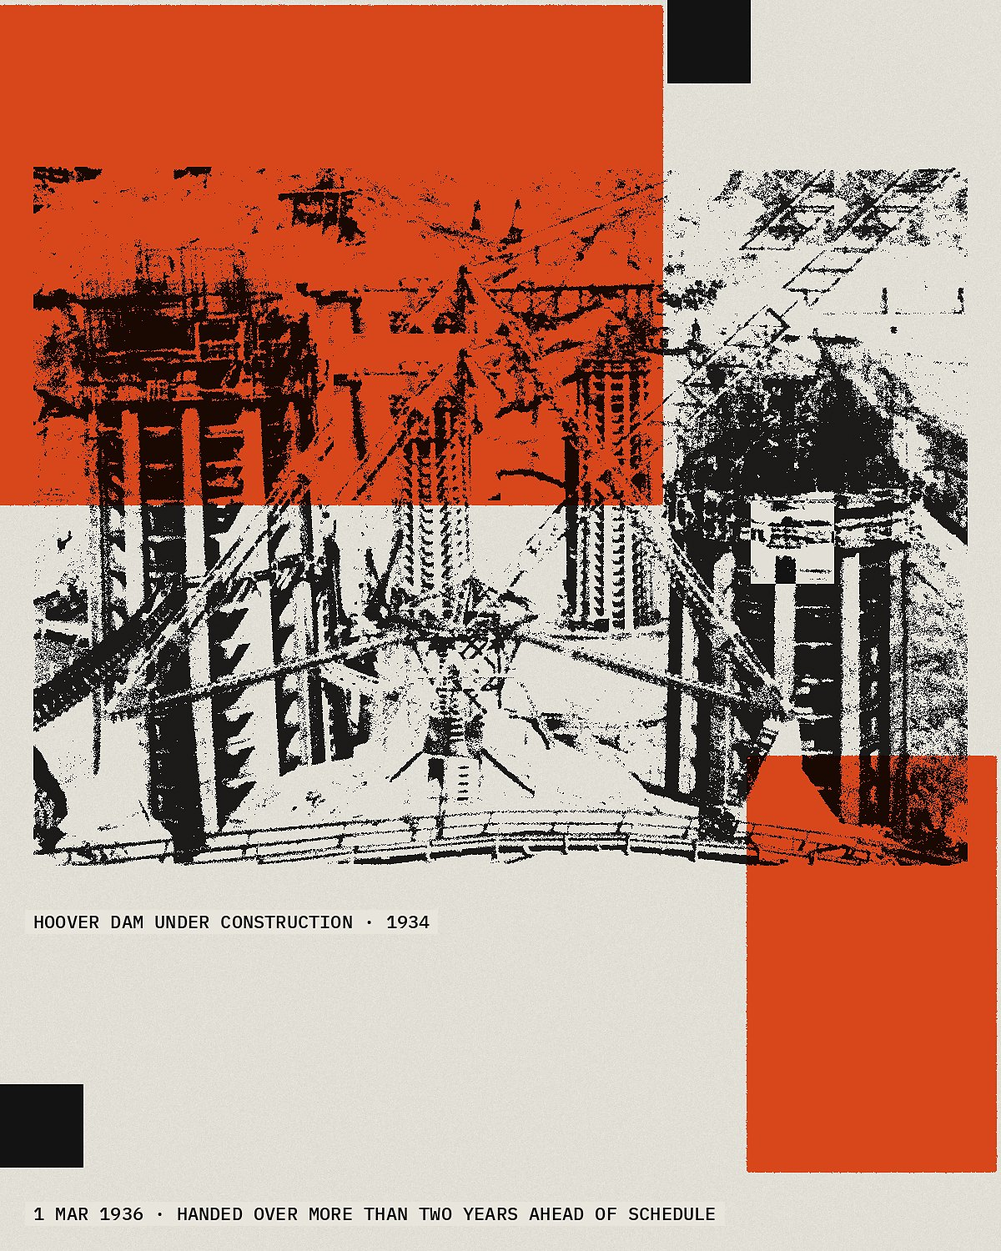
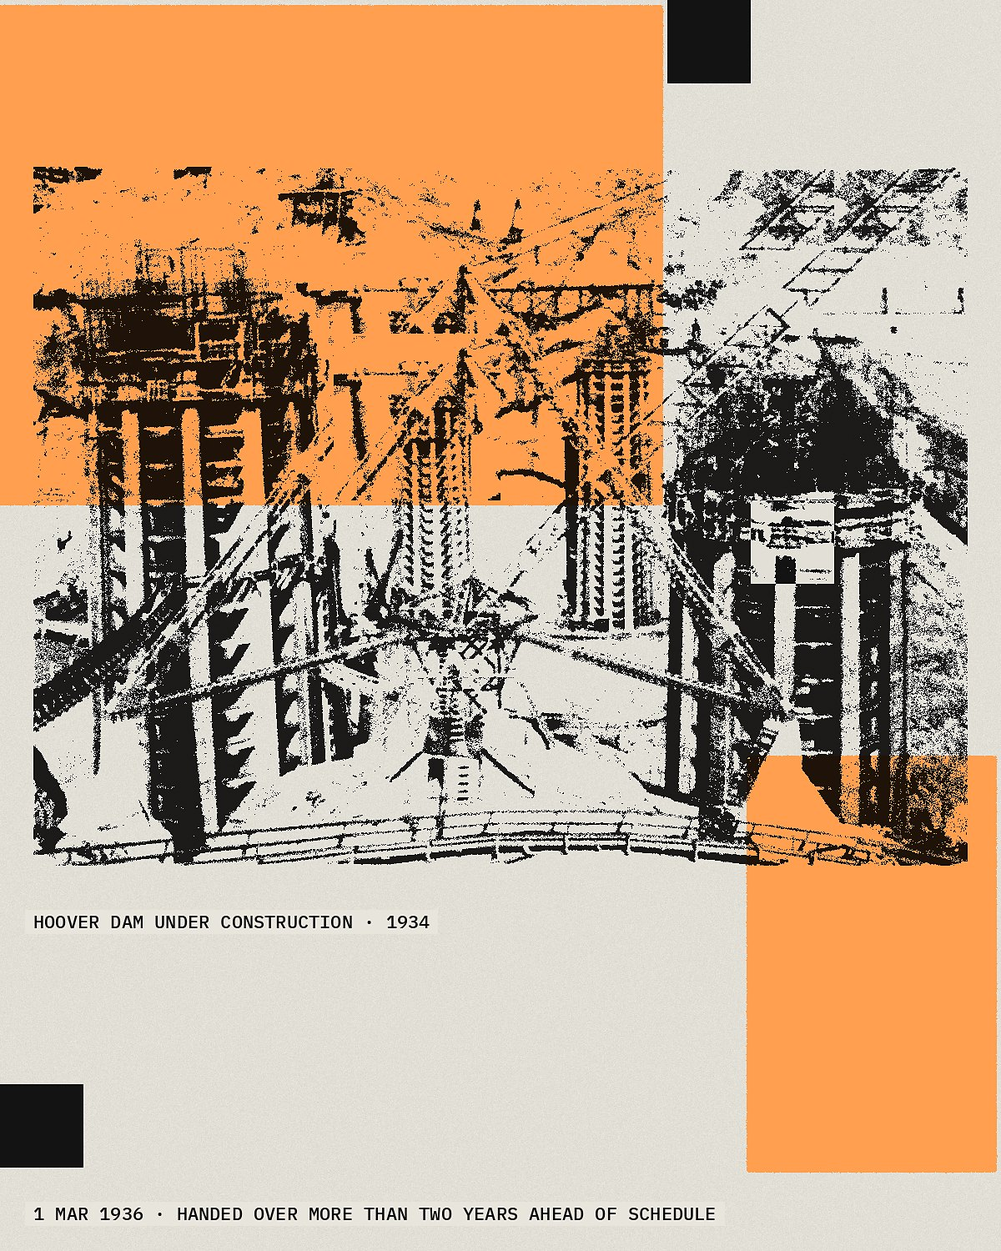
Phase A: history first, families reordered, highlighter orange, new EA card
- Home page: History of AI, then Movements, then Vocabulary (owner, 22 Nov 2026); menu and hero links follow.
- Families in the order Transcendence, Acceleration, Risk; movements renumbered 01-06; hero "Transcend. Accelerate. Pause."
- Acceleration's family colour is now highlighter orange #FF9F4F; the site accent and the History of AI card keep #D8461C.
- Effective altruism card: a Thomas de Colmar arithmometer of 1860 (public domain, batch 10) beside 10^58, Bostrom's 2014 count of possible future lives, instead of the bed nets.
- "2045" moves from the Transhumanism card to the Singularitarianism card, beside von Neumann's IAS machine; Transhumanism keeps the Gilgamesh tablet with no big type.

Claude-Session: https://claude.ai/code/session_01Sc1pzyhKsrC3mM6v1oVhk6

Changed region(s): [[0.0, 0.0, 0.6783, 0.4293], [0.74, 0.5827, 1.0, 0.9507]]

diff --git a/src/styles/site.css b/src/styles/site.css
@@ -65,7 +65,7 @@ a:hover { color: var(--muted); }
 .chips label:hover { border-color: var(--ink); }
 /* Families as rows: the family on the left, its two movements side by side. */
 .sec-h { margin: 0 0 40px; font-size: 48px; line-height: 52px; font-weight: 600; letter-spacing: -0.02em; }
-.mov-sec { display: flex; flex-direction: column; gap: 48px; }
+.mov-sec { margin-top: 128px; display: flex; flex-direction: column; gap: 48px; } /* the home page runs History of AI, Movements, Vocabulary (owner, 22 Nov 2026) */
 .fams { display: flex; flex-direction: column; row-gap: 72px; }
 .fam { display: grid; grid-template-columns: repeat(2, minmax(0, 1fr)); column-gap: var(--g); row-gap: 28px; align-items: start; padding-top: 18px; border-top: 2px solid var(--ink); }
 .fh { grid-column: 1 / -1; display: flex; align-items: baseline; flex-wrap: wrap; column-gap: 20px; row-gap: 4px; }
@@ -240,7 +240,7 @@ a.hist:hover .ht { text-decoration: underline; }
 .hm:target summary .hm-n { text-decoration: underline; text-decoration-color: var(--accent); text-underline-offset: 4px; }
 
 /* The history card on the home page: a panorama from side to side, the text in columns under it */
-.hist-sec { margin-top: 128px; display: flex; flex-direction: column; gap: 48px; }
+.hist-sec { display: flex; flex-direction: column; gap: 48px; }
 .hcard { display: flex; flex-direction: column; gap: 12px; text-decoration: none; color: var(--ink); }
 .hcard:hover { color: var(--ink); }
 .hcard:hover img { filter: brightness(0.96); }

diff --git a/src/lib/site.ts b/src/lib/site.ts
@@ -3,9 +3,11 @@ export const SITE_TITLE = 'A genealogy of the ideas behind AI';
 export const MAP_DATE = '20 November 2026';
 
 export const FAMILIES = [
+  // In the order of the home page (owner, 22 Nov 2026): from the farthest future towards the present,
+  // from the most eager about the machine to the most wary. Family colours are highlighter colours.
   { id: 'transcendence', name: 'Transcendence', colour: '#C9F25B', text: 'The vision of a future beyond human limits.' },
+  { id: 'acceleration', name: 'Acceleration', colour: '#FF9F4F', text: 'The conviction that the answer is more technology, faster.' },
   { id: 'risk', name: 'Risk', colour: '#F5A3BC', text: 'The fear that AI could end us, and the work to prevent it.' },
-  { id: 'acceleration', name: 'Acceleration', colour: '#D8461C', text: 'The conviction that the answer is more technology, faster.' },
 ] as const;
 
 /* The eras of the history of AI, newest first. Each history moment names one. */

diff --git a/scripts/collages.py b/scripts/collages.py
@@ -14,6 +14,8 @@ M = 100
 PAPER = np.array([226, 223, 215], float) / 255
 INK = np.array([20, 19, 19], float) / 255
 GREEN, PINK, ORANGE, GREY = '#C9F25B', '#F5A3BC', '#D8461C', '#B7B3AA'
+# The families' colours are highlighter colours (owner, 22 Nov 2026). ORANGE stays the site accent, used on the History of AI cards.
+ACCEL = '#FF9F4F'
 SANS = os.path.join(ROOT, 'scripts/collage-fonts/InterTight-600.ttf')
 MONO = os.path.join(ROOT, 'scripts/collage-fonts/PlexMono-500.ttf')
 
@@ -135,30 +137,31 @@ SPECS = [
          fields=[(0, 1, 9, 10), (10, 0, 6, 5)], black=[(9, 0, 1, 1), (15, 7, 1, 1)],
          fragments=[dict(img='gilgamesh-tablet-xi.jpg', box=(900, 1040), crop=(0.05, 0.04, 0.95, 0.96), how='screen', level=0.43, at=(0, 60))],
          shift=[(3, 4, 2, 2, 1, 0), (5, 8, 1, 2, 0, -1)], invert=[(7, 2, 1, 1)],
-         type=[dict(slab=(8, 7, 8, 4), parts=[('2045', 300, 840, 760)])],
-         labels=[('2045 · KURZWEIL, THE SINGULARITY IS NEAR (2005)', 850, 655), ('7TH CENTURY BCE · THE FLOOD TABLET, EPIC OF GILGAMESH', 40, 1150)]),
+         labels=[('7TH CENTURY BCE · THE FLOOD TABLET, EPIC OF GILGAMESH', 40, 1150)]),
     dict(id='collage-singularitarianism', size=ISM, colour=GREEN, seed=5,
          fields=[(0, 1, 8, 9), (11, 7, 5, 5)], black=[(8, 0, 1, 1), (15, 3, 1, 1)],
          fragments=[dict(img='sing-ias-computer.jpg', box=(1100, 661), crop=(0.0, 0.05, 1.0, 0.95), how='screen', level=0.5, at=(60, 200))],
          shift=[(3, 3, 2, 2, 1, 0), (8, 5, 2, 1, 0, 1)], invert=[(6, 2, 1, 1)],
-         labels=[('1958 · ULAM RECALLS VON NEUMANN ON AN "ESSENTIAL SINGULARITY"', 60, 930), ("THE IAS MACHINE · VON NEUMANN'S COMPUTER, PRINCETON", 40, 1150)]),
+         type=[dict(slab=(8, 8, 8, 3), parts=[('2045', 300, 840, 790)])],
+         labels=[('1958 · ULAM RECALLS VON NEUMANN ON AN "ESSENTIAL SINGULARITY"', 60, 140), ('2045 · KURZWEIL, THE SINGULARITY IS NEAR (2005)', 845, 1110), ("THE IAS MACHINE · VON NEUMANN'S COMPUTER, PRINCETON", 40, 1150)]),
     dict(id='collage-rationalism', size=ISM, colour=PINK, seed=8,
          fields=[(0, 0, 7, 12), (11, 0, 5, 5)], black=[(7, 0, 1, 1), (15, 9, 1, 1)],
          fragments=[dict(img='gem-paper-clip-1893.jpg', box=(306, 1080), crop=(0.025, 0.068, 0.18, 0.94), how='screen', level=0.6, blur=1.4, at=(260, 60))],
          shift=[(3, 6, 1, 1, 1, 0)], invert=[(2, 3, 1, 1)],
          labels=[('2003 · THE PAPERCLIP MAXIMISER', 820, 640), ('1893 · THE GEM PAPER CLIP, AS ADVERTISED', 40, 1150)]),
     dict(id='collage-effective-altruism', size=ISM, colour=PINK, seed=13,
-         fields=[(0, 1, 9, 10), (11, 0, 5, 4)], black=[(9, 0, 1, 1), (15, 8, 1, 2)],
-         fragments=[dict(img='bednets-stacked.jpg', box=(1000, 893), crop=(0.0, 0.0, 0.84, 1.0), channel='B', how='screen', level=0.55, detail=2, blur=0.7, at=(40, 60))],
-         shift=[(3, 3, 2, 2, 1, 0), (6, 7, 1, 2, 0, -1)], invert=[(7, 2, 1, 1)],
-         labels=[('ABOUT $5 A NET', 1050, 610), ('$5,500 PER LIFE SAVED · GIVEWELL, 2021–23', 1050, 652), ('BED NETS READY FOR DISTRIBUTION', 40, 1150)]),
-    dict(id='collage-effective-accelerationism', size=ISM, colour=ORANGE, seed=21,
+         fields=[(0, 1, 10, 8), (12, 8, 4, 4)], black=[(10, 0, 1, 1), (0, 10, 1, 1)],
+         fragments=[dict(img='arithmometer-1860.jpg', box=(1000, 542), crop=(0.13, 0.10, 0.88, 0.71), how='screen', level=0.46, detail=2, at=(40, 200))],
+         shift=[(3, 3, 2, 2, 1, 0), (7, 6, 1, 1, 0, -1)], invert=[(6, 3, 1, 1)],
+         type=[dict(slab=(8, 8, 8, 3), parts=[('10', 300, 860, 790), ('58', 150, 1180, 778)])],
+         labels=[("2014 · BOSTROM'S COUNT OF POSSIBLE FUTURE LIVES", 865, 1110), ('1860 · A THOMAS DE COLMAR ARITHMOMETER', 40, 1150)]),
+    dict(id='collage-effective-accelerationism', size=ISM, colour=ACCEL, seed=21,
          fields=[(0, 6, 9, 6), (12, 0, 4, 4)], black=[(9, 0, 1, 3), (15, 6, 1, 1)],
          fragments=[dict(img='boccioni-city-rises.jpg', box=(1240, 830), how='screen', level=0.52, at=(0, 0))],
          shift=[(3, 2, 2, 2, 1, 0), (6, 4, 2, 2, 0, -1), (10, 1, 2, 2, -1, 0)], invert=[(1, 4, 2, 2)],
          type=[dict(slab=(8, 8, 8, 3), parts=[('e/acc', 300, 830, 800)])],
          labels=[('1910 · BOCCIONI, THE CITY RISES', 40, 1150), ('2022 · EFFECTIVE ACCELERATIONISM', 1160, 760)]),
-    dict(id='collage-techno-optimism', size=ISM, colour=ORANGE, seed=34,
+    dict(id='collage-techno-optimism', size=ISM, colour=ACCEL, seed=34,
          fields=[(0, 0, 7, 7), (11, 8, 5, 4)], black=[(7, 0, 1, 2), (0, 7, 1, 1)],
          fragments=[dict(img='hoover-dam-1934.jpg', box=(1040, 778), how='screen', level=0.5, at=(560, 40))],
          shift=[(9, 3, 2, 2, 0, 1), (12, 1, 2, 1, -1, 0)], invert=[(13, 5, 1, 1)],
@@ -309,20 +312,20 @@ SPECS = [
          fields=[(0, 0, 9, 10), (9, 11, 3, 4)], black=[(10, 1, 1, 1), (0, 12, 1, 1)],
          fragments=[dict(img='gilgamesh-tablet-xi.jpg', box=(840, 971), crop=(0.05, 0.04, 0.95, 0.96), how='screen', level=0.43, at=(40, 40))],
          shift=[(3, 3, 2, 2, 1, 0), (5, 7, 1, 2, 0, -1)], invert=[(6, 2, 1, 1)],
-         type=[dict(slab=(3, 10, 9, 3), parts=[('2045', 300, 380, 990)])],
-         labels=[('2045 · KURZWEIL, THE SINGULARITY IS NEAR (2005)', 385, 1325), ('7TH CENTURY BCE · THE FLOOD TABLET, EPIC OF GILGAMESH', 40, 1440)]),
+         labels=[('7TH CENTURY BCE · THE FLOOD TABLET, EPIC OF GILGAMESH', 40, 1440)]),
     dict(id='collage-singularitarianism-tall', size=PAGE, colour=GREEN, seed=5,
          fields=[(0, 2, 9, 9), (9, 11, 3, 4)], black=[(10, 1, 1, 1), (0, 13, 1, 1)],
          fragments=[dict(img='sing-ias-computer.jpg', box=(1120, 673), crop=(0.0, 0.05, 1.0, 0.95), how='screen', level=0.5, at=(40, 380))],
          shift=[(3, 5, 2, 2, 1, 0), (8, 7, 2, 1, 0, 1)], invert=[(6, 4, 1, 1)],
-         labels=[('1958 · ULAM RECALLS VON NEUMANN ON AN "ESSENTIAL SINGULARITY"', 40, 1130), ("THE IAS MACHINE · VON NEUMANN'S COMPUTER, PRINCETON", 40, 1440)]),
-    dict(id='collage-effective-accelerationism-tall', size=PAGE, colour=ORANGE, seed=21,
+         type=[dict(slab=(3, 0, 9, 3), parts=[('2045', 300, 380, 20)])],
+         labels=[('2045 · KURZWEIL, THE SINGULARITY IS NEAR (2005)', 385, 300), ('1958 · ULAM RECALLS VON NEUMANN ON AN "ESSENTIAL SINGULARITY"', 40, 1130), ("THE IAS MACHINE · VON NEUMANN'S COMPUTER, PRINCETON", 40, 1440)]),
+    dict(id='collage-effective-accelerationism-tall', size=PAGE, colour=ACCEL, seed=21,
          fields=[(0, 5, 8, 9), (9, 0, 3, 4)], black=[(8, 1, 1, 2), (11, 13, 1, 1)],
          fragments=[dict(img='boccioni-city-rises.jpg', box=(1200, 797), how='screen', level=0.52, at=(0, 120))],
          shift=[(3, 2, 2, 2, 1, 0), (6, 4, 2, 2, 0, -1), (9, 5, 2, 1, -1, 0)], invert=[(1, 4, 2, 2)],
          type=[dict(slab=(2, 10, 10, 3), parts=[('e/acc', 300, 300, 970)])],
          labels=[('2022 · EFFECTIVE ACCELERATIONISM', 305, 1325), ('1910 · BOCCIONI, THE CITY RISES', 40, 1440)]),
-    dict(id='collage-techno-optimism-tall', size=PAGE, colour=ORANGE, seed=34,
+    dict(id='collage-techno-optimism-tall', size=PAGE, colour=ACCEL, seed=34,
          fields=[(0, 0, 8, 6), (9, 9, 3, 5)], black=[(8, 0, 1, 1), (0, 13, 1, 1)],
          fragments=[dict(img='hoover-dam-1934.jpg', box=(1120, 838), how='screen', level=0.5, at=(40, 200))],
          shift=[(4, 4, 2, 2, 0, 1), (8, 2, 2, 1, -1, 0)], invert=[(9, 6, 1, 1)],
@@ -333,10 +336,11 @@ SPECS = [
          shift=[(3, 7, 1, 1, 1, 0)], invert=[(2, 4, 1, 1)],
          labels=[('2003 · THE PAPERCLIP MAXIMISER', 680, 700), ('1893 · THE GEM PAPER CLIP, AS ADVERTISED', 40, 1440)]),
     dict(id='collage-effective-altruism-tall', size=PAGE, colour=PINK, seed=13,
-         fields=[(0, 1, 8, 11), (9, 12, 3, 3)], black=[(9, 0, 1, 1), (0, 13, 1, 1)],
-         fragments=[dict(img='bednets-stacked.jpg', box=(1120, 1000), crop=(0.0, 0.0, 0.84, 1.0), channel='B', how='screen', level=0.55, detail=2, blur=0.7, at=(40, 80))],
-         shift=[(3, 4, 2, 2, 1, 0), (7, 8, 1, 2, 0, -1)], invert=[(8, 2, 1, 1)],
-         labels=[('ABOUT $5 A NET', 40, 1150), ('$5,500 PER LIFE SAVED · GIVEWELL, 2021–23', 40, 1192), ('BED NETS READY FOR DISTRIBUTION', 40, 1440)]),
+         fields=[(0, 1, 9, 9), (9, 12, 3, 3)], black=[(9, 0, 1, 1), (0, 13, 1, 1)],
+         fragments=[dict(img='arithmometer-1860.jpg', box=(1120, 607), crop=(0.13, 0.10, 0.88, 0.71), how='screen', level=0.46, detail=2, at=(40, 240))],
+         shift=[(3, 4, 2, 2, 1, 0), (7, 6, 1, 1, 0, -1)], invert=[(6, 3, 1, 1)],
+         type=[dict(slab=(2, 9, 10, 3), parts=[('10', 300, 300, 890), ('58', 150, 620, 878)])],
+         labels=[("2014 · BOSTROM'S COUNT OF POSSIBLE FUTURE LIVES", 305, 1210), ('1860 · A THOMAS DE COLMAR ARITHMOMETER', 40, 1440)]),
 ]
 
 # The home page's vertical card: the same as the history page's, without its top-right square, which the page

diff --git a/CLAUDE.md b/CLAUDE.md
@@ -11,13 +11,13 @@ A website, built first to pitch funders for an exhibition. It maps the isms of t
 ## The framework (decided, do not change without the owner)
 
 - **An ism** is mapped when it is a whole view of AI (what it is, where it is heading, what to do), born in the tech world, and named by its own people, with founding texts, vocabulary and institutions to trace.
-- **Six isms in three families:**
+- **Six isms in three families**, in this order (owner, 22 Nov 2026: from the farthest future towards the present, from the most eager about the machine to the most wary; numbered 01–06 in this order):
   - Transcendence: Transhumanism · Singularitarianism (includes successionism)
-  - Risk: Rationalism (often called the doomers; includes the call to pause and Humanist AI, owner 21 Nov 2026) · Effective altruism (includes longtermism)
   - Acceleration: Effective accelerationism (includes neoreaction and the network state) · Techno-optimism (includes augmentation)
+  - Risk: Rationalism (often called the doomers; includes the call to pause and Humanist AI, owner 21 Nov 2026) · Effective altruism (includes longtermism)
 - **Below the six: key words and the vocabulary** (owner, 20 Nov 2026). The broad themes are gone. Instead, narrow terms people hear again and again in the debate. Every term is in the **vocabulary** (`src/data/words/`: what it means, who coined it and when, which isms use it). About a dozen are **key words** with an illustrated card and their own page (`src/content/themes/`, the old theme files): Scaling laws (Perceptron card), Compute (H100 chips), Abundance (meter), Augmentation (mouse), Facial recognition (camera), Citizens' assemblies (kleroterion), Luddite (the Luddite engraving); to come with new cards: Open weights, Alignment, AGI, The pause, p(doom). No separate critics section: criticism sits in each page's "Who disputes it" and in narrow words of its own. More key words are added over time; each stays narrow.
-- **Three tracks** (owner, 20 Nov 2026): **Movements** (who believes what), **History of AI** (what happened: machines, ideas, labs, money, laws; the ground all six react to) and **Vocabulary** (the words they fight with). The menu shows these three. The history links the other two by data: each moment is tagged with movements and key words; each era shows the movements named in it (`born` on each ism) and the words coined in it (by year); movement and key-word pages list "In the history of AI".
-- **Headings say "movements"**; "isms" stays the working word in this file and the repository. The home page has three sections, each under a plain header of one word or name (Movements, History of AI, Vocabulary; owner, 20 Nov 2026): the six in three family rows (01–06), then the **History of AI** as one panorama card (11:5, a quarter taller than a movement card so it reads as the biggest; the 4:5 version on phones), then **Vocabulary**: the illustrated key words first, then the other words as a plain list leading to the full vocabulary page (the only place with a filter, by family). No explainers of how the site works: the design should make it clear (owner, 20 Nov 2026). The hero (owner, 21 Nov 2026, option A): the subtitle and the map date on one line over a thin rule; below it "Transcend. Pause. Accelerate." across the page; under that, a bold standfirst on columns 1–5 ("ChatGPT … felt like year zero." with "It wasn't." on its own line), column 6 left empty, and three short paragraphs on columns 7–12, in line with the right-hand movement cards below, the last linking the three sections; the two columns stack under 900 px.
+- **Three tracks** (owner, 20 Nov 2026), in this order (owner, 22 Nov 2026): **History of AI** (what happened: machines, ideas, labs, money, laws; the ground all six react to), **Movements** (who believes what) and **Vocabulary** (the words they fight with). The menu shows these three in this order. The history links the other two by data: each moment is tagged with movements and key words; each era shows the movements named in it (`born` on each ism) and the words coined in it (by year); movement and key-word pages list "In the history of AI".
+- **Headings say "movements"**; "isms" stays the working word in this file and the repository. The home page has three sections, each under a plain header of one word or name (History of AI, Movements, Vocabulary; owner, 20 Nov 2026, reordered 22 Nov 2026 so the history comes first): the **History of AI** as one panorama card (11:5, a quarter taller than a movement card so it reads as the biggest; the 4:5 version on phones), then the six in three family rows (01–06), then **Vocabulary**: the illustrated key words first, then the other words as a plain list leading to the full vocabulary page (the only place with a filter, by family). No explainers of how the site works: the design should make it clear (owner, 20 Nov 2026). The hero (owner, 21 Nov 2026, option A): the subtitle and the map date on one line over a thin rule; below it "Transcend. Accelerate. Pause." across the page (the families' order, owner 22 Nov 2026); under that, a bold standfirst on columns 1–5 ("ChatGPT … felt like year zero." with "It wasn't." on its own line), column 6 left empty, and three short paragraphs on columns 7–12, in line with the right-hand movement cards below, the last linking the three sections; the two columns stack under 900 px.
 - **Ism page:** Introduction · Who holds it now · Notable figures · Its words · Its themes · Who disputes it · then the history, newest first, back to the oldest root.
 - **History of AI page:** Introduction · the eras as an index · then, newest first, each era (name, span, one line, movements named in it, words from it) and its moments. A moment shows year, title and one line, and folds open to who, two to four sentences, the source and its tags. The deepest timeline on the site: about 80 moments, back to the oldest documented root.
 - **Key-word page:** Introduction (what it means, who coined it) · How the movements see it (one line each, only where a movement has a view) · Strands · Related words · In the movements' histories (built from tags) · Who disputes it. The section menu lists only the sections a page has.
@@ -66,7 +66,7 @@ Schemas are in `src/content.config.ts`; the build fails on a broken reference. S
 
 The full recipe lives in the design system **Made Minds Illustration** (https://claude.ai/artifact/AKayCErJw2u8QYjb3bzDSN, slug `4b7a91e1-db02-4604-a0e6-7241adc16c37`): rules, the step-by-step recipe, the seven theme cards as references, the owner's decisions and the versions he turned down. Read its `project/README.md` and `project/01-recipe.md` before making or changing a collage. When the owner changes the style, update the guide first, then the engine. It holds all fourteen cards (six movements in family colours, eight key words in grey), the History of AI card and its motion, and the family colours as tokens.
 
-Every ism and theme card is a collage made in code by `scripts/collages.py` (`python3 scripts/collages.py <id>`), from archive images already cleared. Rules: archive fragments only (objects, drawings, engravings, machines, charts; no title pages or text documents); fragments cut along a 100 px grid, with a few squares shifted, inverted or removed; two bold colour fields under them, slightly out of register; family colour for isms (Transcendence `#C9F25B`, Risk `#F5A3BC`, Acceleration `#D8461C`), grey for themes; type only when it carries meaning (a date, a word of the ism's own) and then always whole, never cut; small mono labels with year and source on paper strips. Guiding rule (owner, 20 Nov): one strong object, one exact fact, plenty of air, as in the Scale collage (the Perceptron with 10²⁵). Big type is rare (owner, 20 Nov): most cards have none, and type never captions its object (no "$500" by a chip, no "0 kWh" by a meter). It earns its place only when it comes from another time than the object, so the viewer closes the gap. A concrete object or a figure in action beats a symbol or an artwork. Each collage's record in `src/data/images/collages.yaml` names its sources and the licence that follows from them. Every card comes in two formats: the card for the grid (`collage-<id>`, 1500 × 1000 for themes) and a vertical page image (`collage-<id>-tall`, 1200 × 1500, 4:5) composed again for the top of its page and set as `pageImage`. Never stretch a photograph: the box keeps the crop's proportions (the engine warns).
+Every ism and theme card is a collage made in code by `scripts/collages.py` (`python3 scripts/collages.py <id>`), from archive images already cleared. Rules: archive fragments only (objects, drawings, engravings, machines, charts; no title pages or text documents); fragments cut along a 100 px grid, with a few squares shifted, inverted or removed; two bold colour fields under them, slightly out of register; family colour for isms, always a highlighter colour (owner, 22 Nov 2026: Transcendence `#C9F25B`, Acceleration `#FF9F4F`, Risk `#F5A3BC`; `#D8461C` stays the site's one accent and the History of AI card's orange), grey for themes; type only when it carries meaning (a date, a word of the ism's own) and then always whole, never cut; small mono labels with year and source on paper strips. Guiding rule (owner, 20 Nov): one strong object, one exact fact, plenty of air, as in the Scale collage (the Perceptron with 10²⁵). Big type is rare (owner, 20 Nov): most cards have none, and type never captions its object (no "$500" by a chip, no "0 kWh" by a meter). It earns its place only when it comes from another time than the object, so the viewer closes the gap. A concrete object or a figure in action beats a symbol or an artwork. Each collage's record in `src/data/images/collages.yaml` names its sources and the licence that follows from them. Every card comes in two formats: the card for the grid (`collage-<id>`, 1500 × 1000 for themes) and a vertical page image (`collage-<id>-tall`, 1200 × 1500, 4:5) composed again for the top of its page and set as `pageImage`. Never stretch a photograph: the box keeps the crop's proportions (the engine warns).
 
 ## Build and check
 

diff --git a/WORKPLAN.md b/WORKPLAN.md
@@ -2,6 +2,25 @@
 
 Every session starts here: find the first stage that is not done, do the next piece, update this file, commit, push. Rules are in `CLAUDE.md`.
 
+## Night of 22–23 November 2026 (owner's go at 23:49; he reads the result in the morning)
+
+Tick each line as it is done, commit, push. A resumed session picks up at the first open line.
+
+**Phase A** (branch `exp/phase-a`; tell the owner when done, by SendUserMessage)
+- [x] Home page order: History of AI, Movements, Vocabulary (menu and hero links too)
+- [x] Families in the order Transcendence, Acceleration, Risk; movements renumbered 01–06; hero "Transcend. Accelerate. Pause."
+- [x] Acceleration in highlighter orange `#FF9F4F` (cards re-rendered; the site accent `#D8461C` and the History card stay)
+- [x] EA card: the arithmometer (batch 10, public domain) with 10⁵⁸; "2045" moved to the Singularitarianism card; Transhumanism card without big type
+- [ ] CLAUDE.md, the design guide, this file; build without warnings; screenshots; merge, push, deploy, preview artifact
+
+**Night run** (owner approved: the Protection family, highlighter blue `#73C7F2`, verb "Protect.")
+- [ ] Framework: family Protection after Risk; rule widened to "born in or against the tech world"; CLAUDE.md
+- [ ] AI ethics (includes AI as normal technology), branch `ism/ai-ethics`: drafted, then checked by a separate agent
+- [ ] Pro-human, branch `ism/pro-human`: drafted, then checked by a separate agent. Humanist AI stays in Rationalism (owner, 22 Nov)
+- [ ] Collages: Protection = the water banner (Unsplash, batch 9) + the owner's Sanders still (cleared by the owner) + a "Sanders · Bannon · same stage" strip. AI ethics = the AFP head-cam photos (batch 9), recorded `to-check`: not live until the owner clears them; the live card uses cleared images meanwhile
+- [ ] History moments tagged, new moments where missing; new words in the vocabulary; key-word lines where the new movements hold a view
+- [ ] Build, screenshots desktop and phone, merge, deploy, preview artifact, morning note to the owner
+
 ## Stages
 
 - [x] **1. Repository and skeleton.** Astro static site, design from the mockup, flat relative pages.

diff --git a/src/content/isms/effective-accelerationism.md b/src/content/isms/effective-accelerationism.md
@@ -1,7 +1,7 @@
 ---
 title: Effective accelerationism
 family: acceleration
-order: 5
+order: 3
 ready: true
 summary: Growth in energy, intelligence and capital is the direction of the universe. Technology should be accelerated, not slowed, and fear of it is the real danger.
 includes: [neoreaction and the network state]

diff --git a/src/content/isms/rationalism.md b/src/content/isms/rationalism.md
@@ -1,7 +1,7 @@
 ---
 title: Rationalism
 family: risk
-order: 3
+order: 5
 ready: true
 summary: A superintelligence built before alignment is solved would likely end humanity. Getting it right first is the most important problem there is.
 includes: [the call to pause, Humanist AI]

diff --git a/src/content/isms/techno-optimism.md b/src/content/isms/techno-optimism.md
@@ -1,7 +1,7 @@
 ---
 title: Techno-optimism
 family: acceleration
-order: 6
+order: 4
 ready: true
 summary: Technology and free markets are the engine of human progress. AI will make people richer, healthier and freer, and slowing it down costs lives.
 includes: [augmentation]

diff --git a/src/content/isms/effective-altruism.md b/src/content/isms/effective-altruism.md
@@ -1,7 +1,7 @@
 ---
 title: Effective altruism
 family: risk
-order: 4
+order: 6
 ready: true
 summary: Do the most good you can, counted across the whole future. For its longtermists, reducing the risk of extinction outweighs almost everything else.
 includes: [longtermism]
